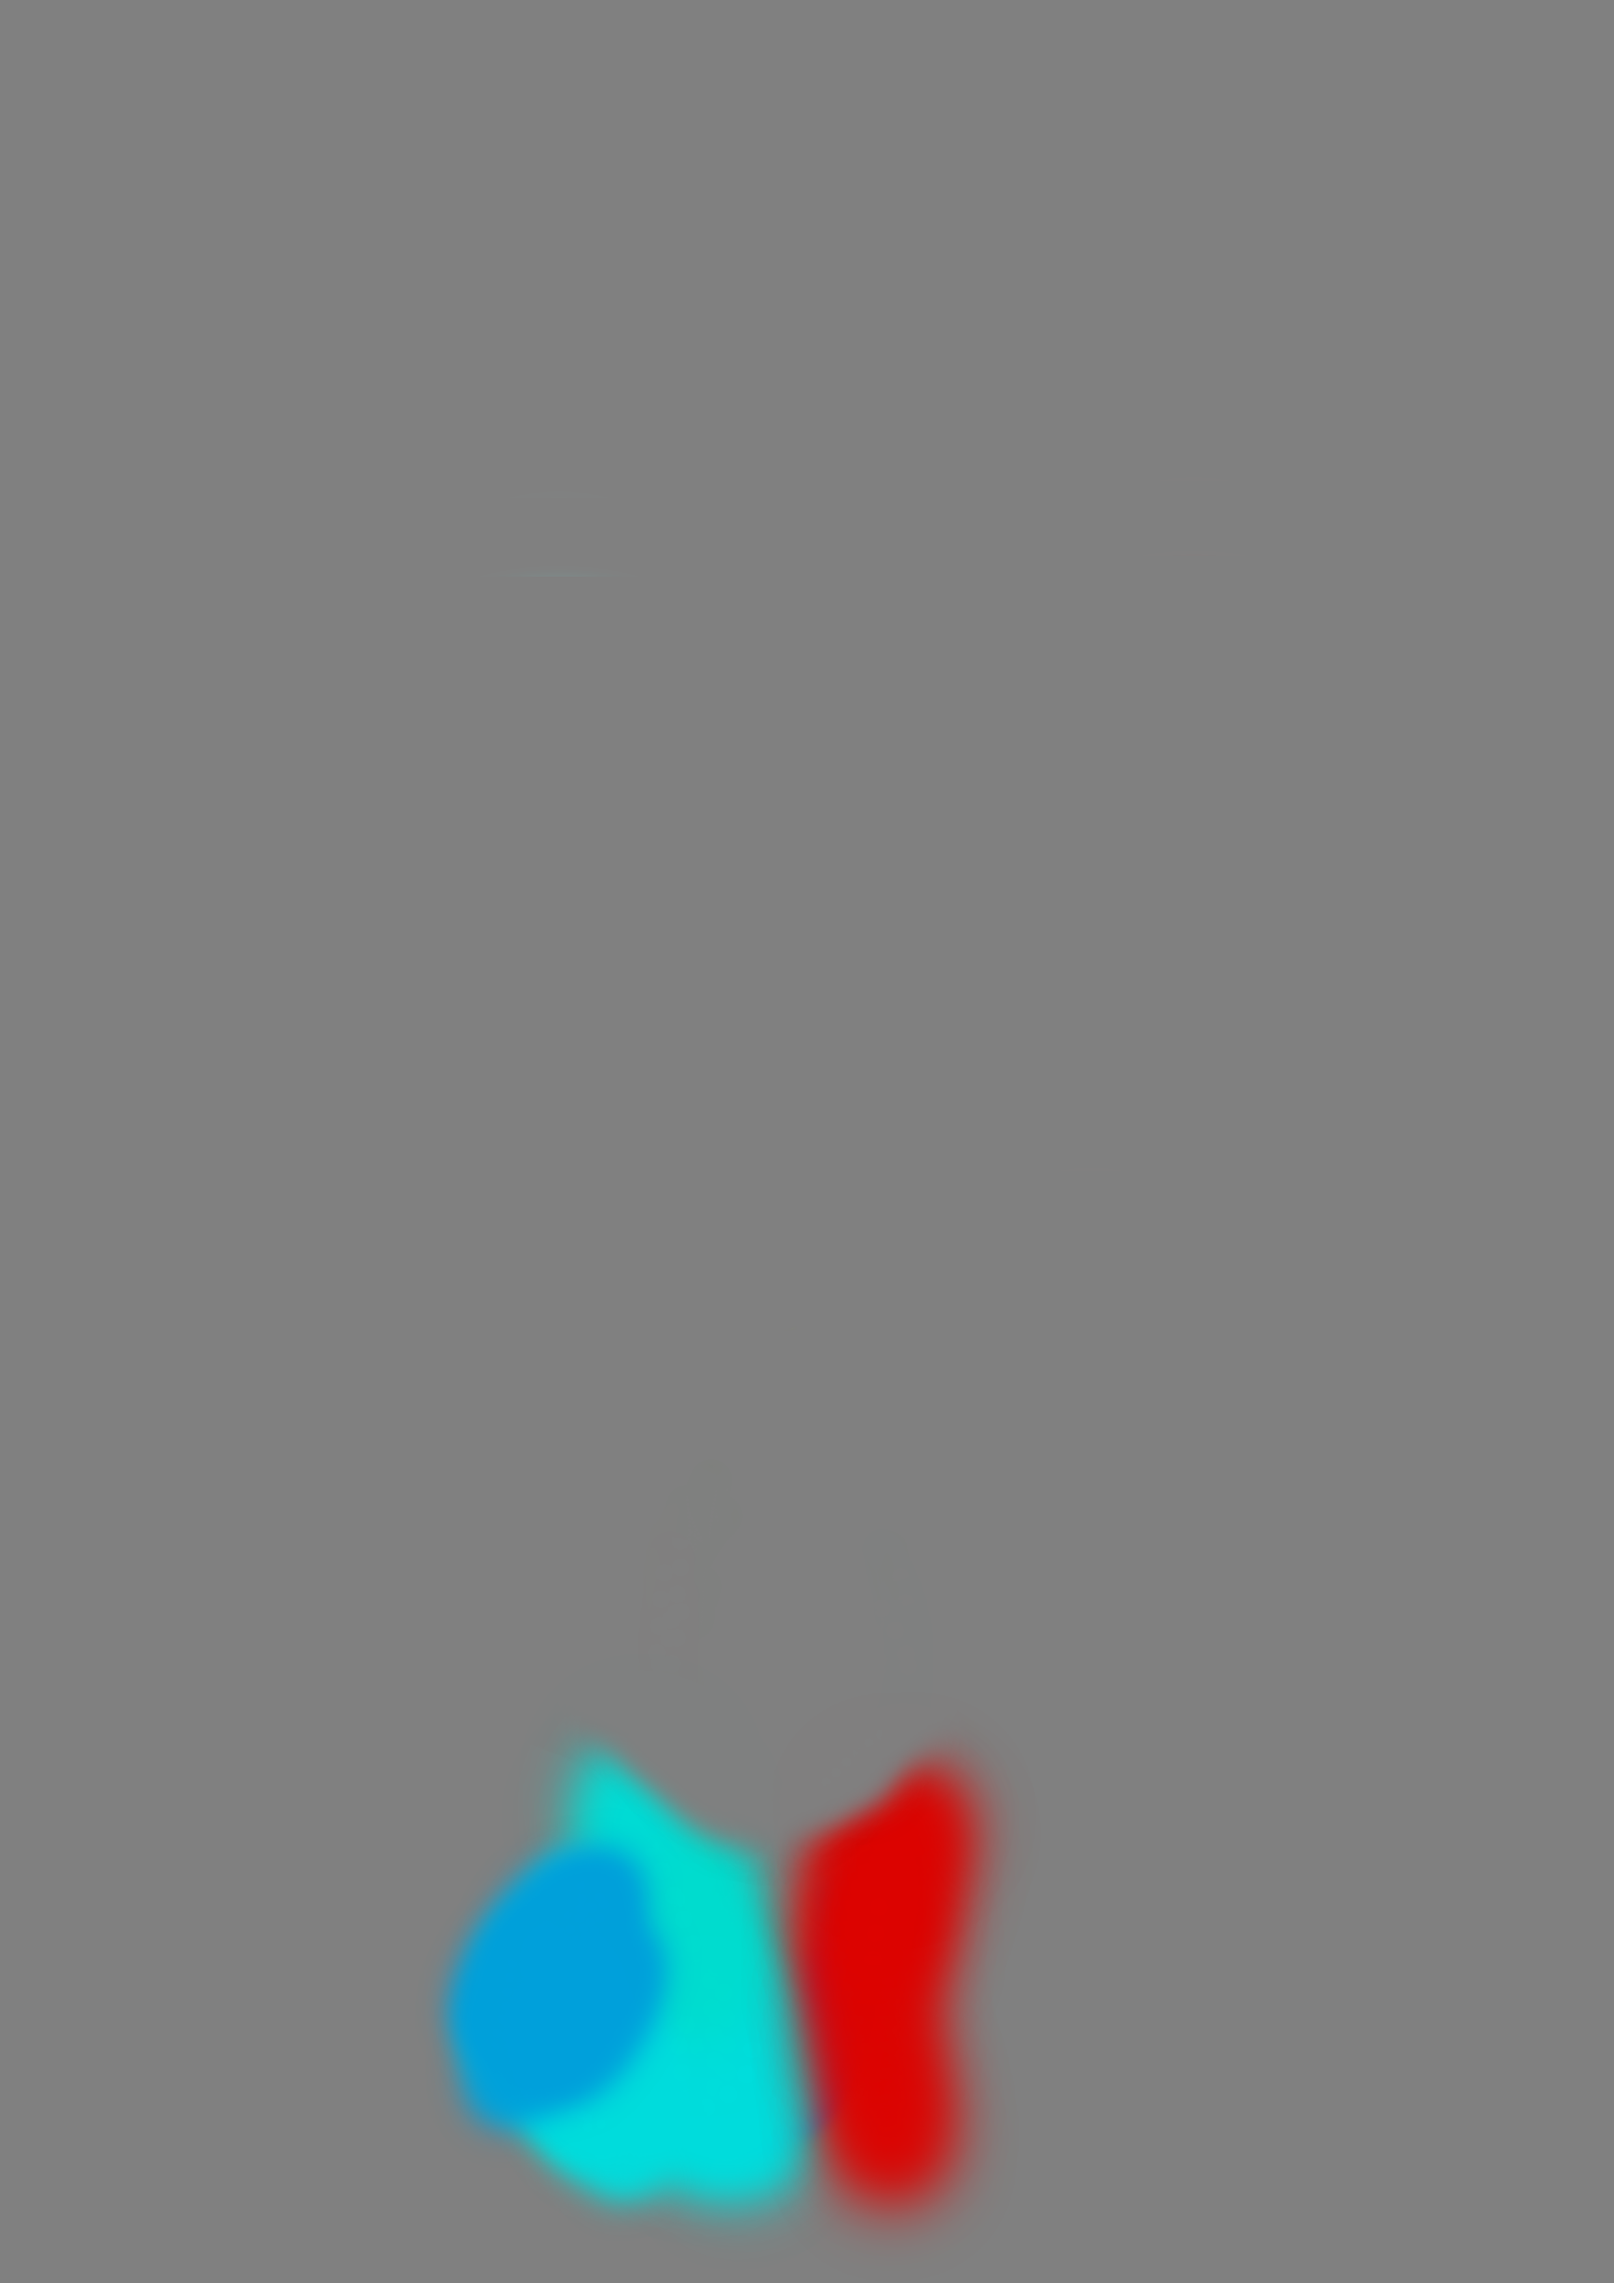
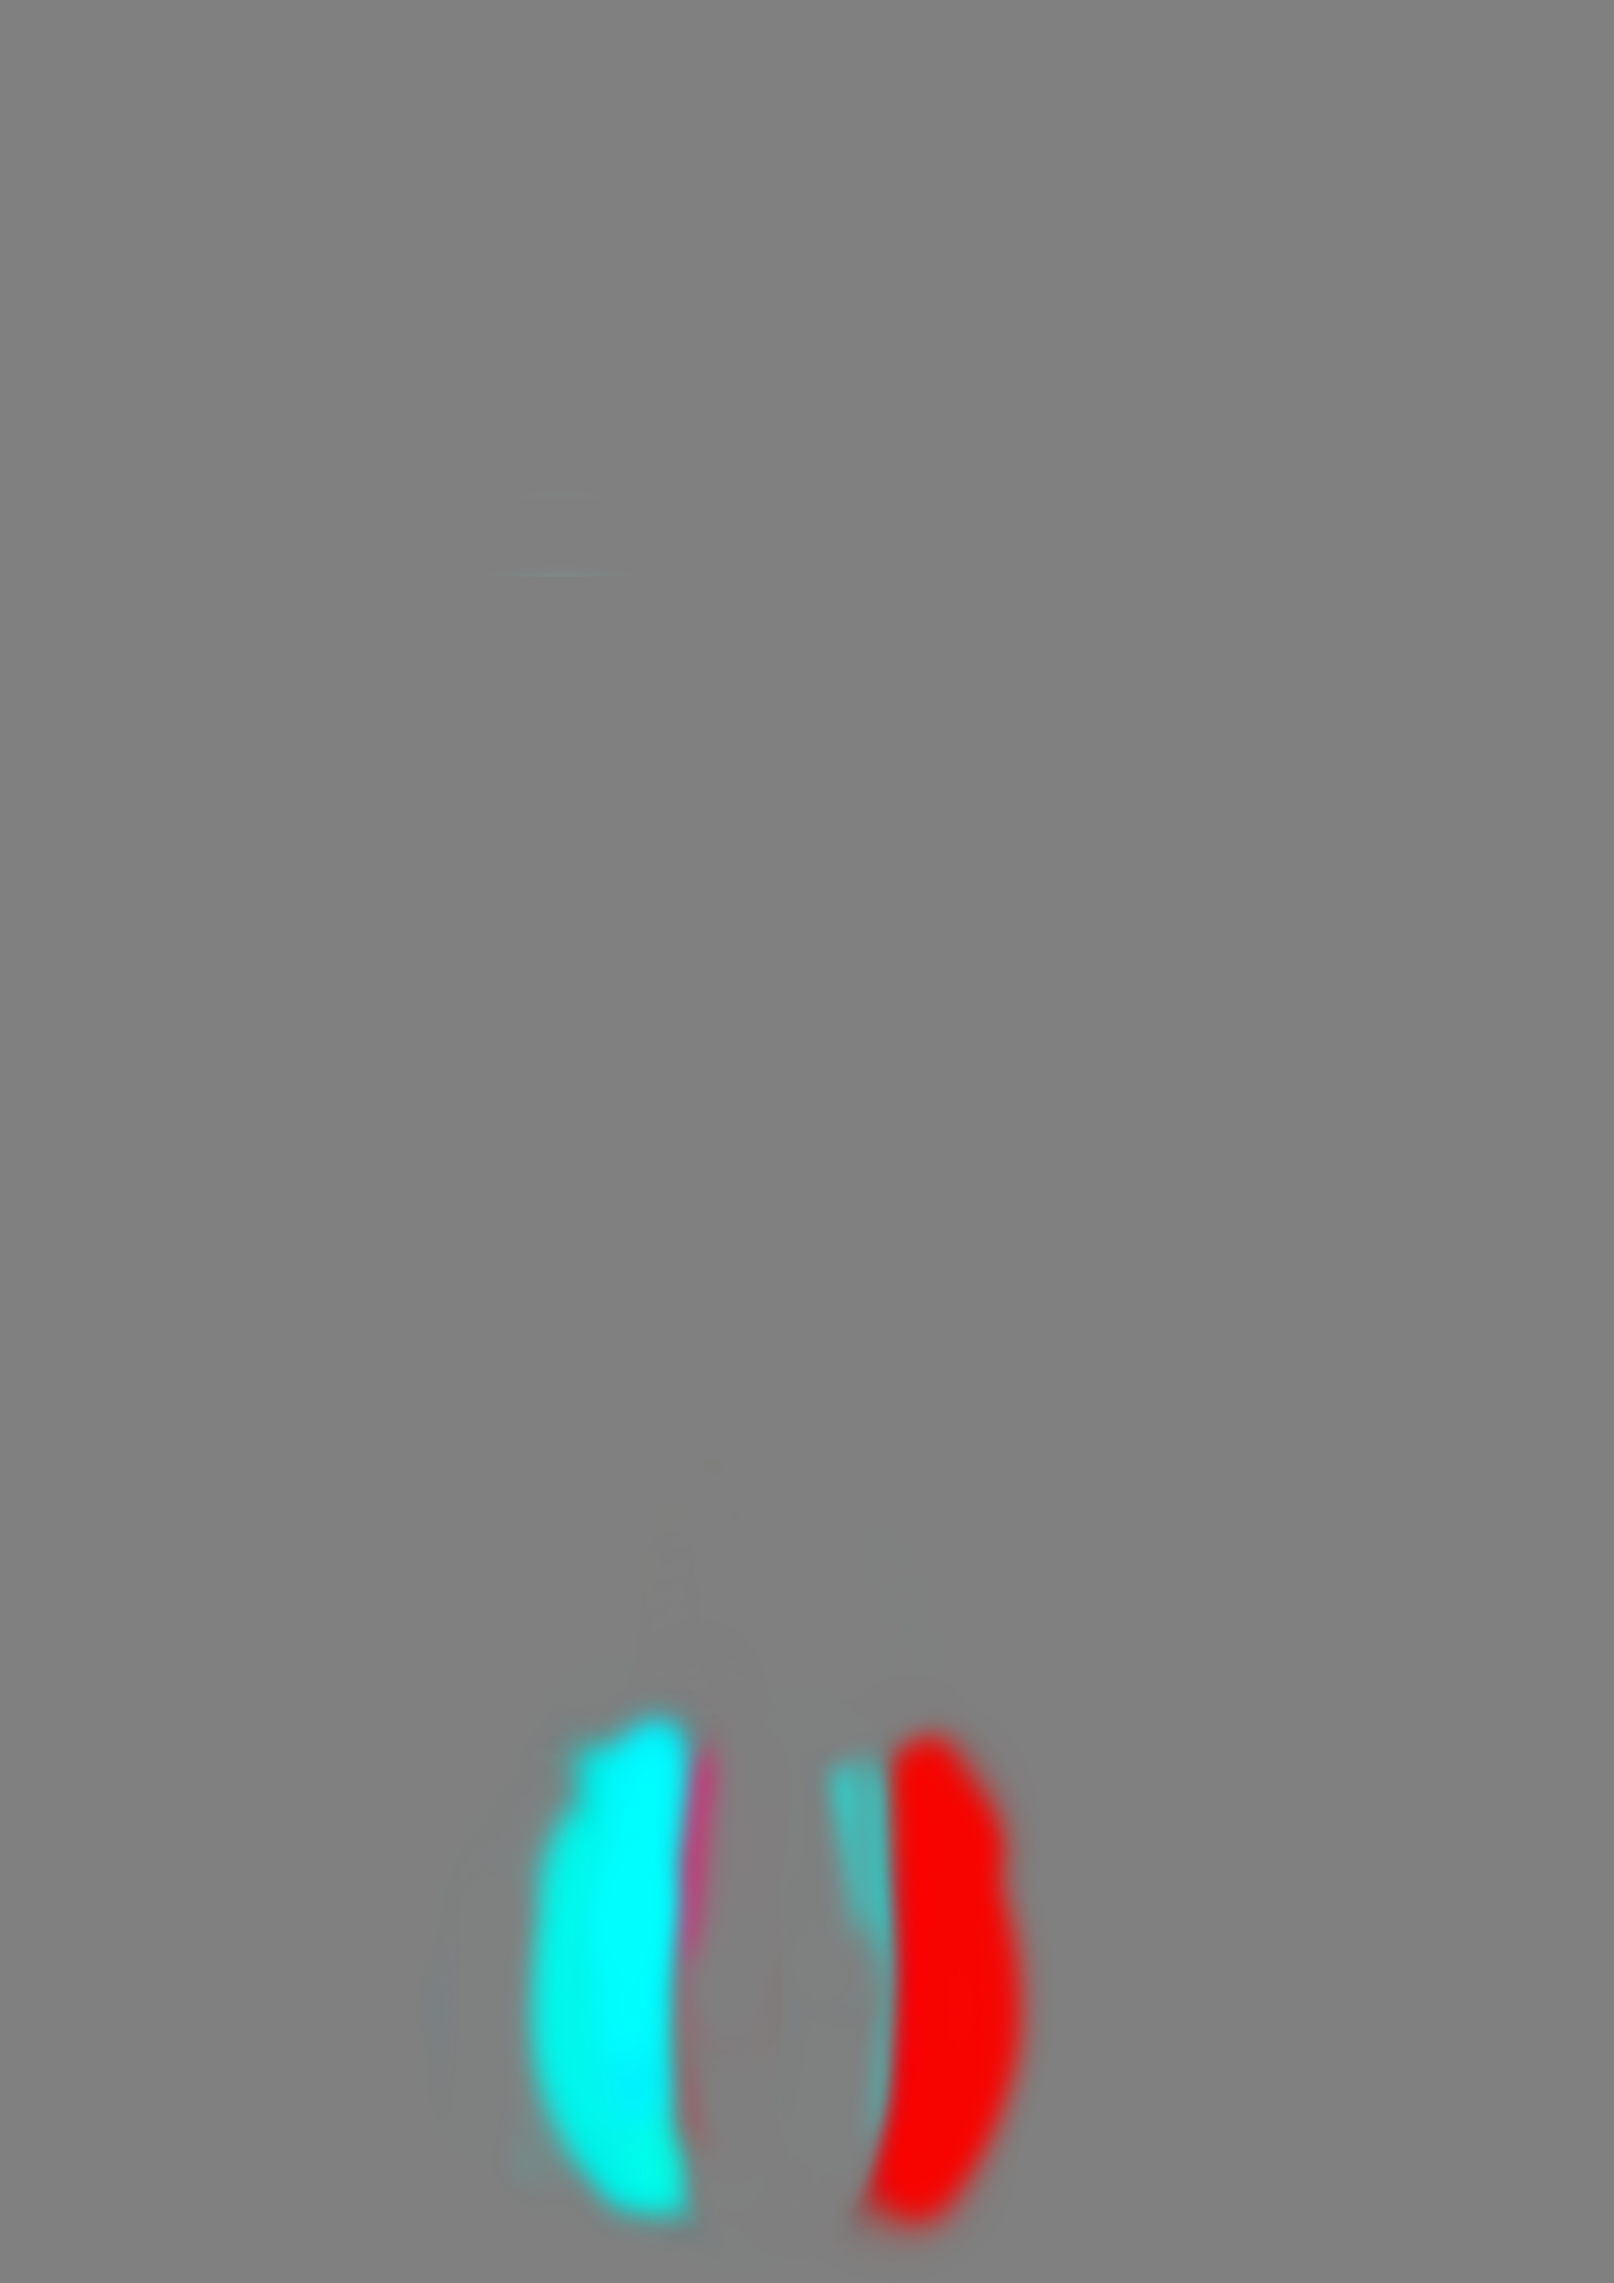
Data

Changed region(s): [[0.2484, 0.7457, 0.652, 0.9943]]

diff --git a/Data/ModelList_Heels.ts b/Data/ModelList_Heels.ts
@@ -19,7 +19,7 @@ AddModel({
 			GlobalDefaultOverride: ToMap(["KneelClosed", "Hogtie"]),
 			Poses: ToMap([...CALFLEFTPOSES]),
 			DisplacementSprite: "Ballet",
-			DisplaceAmount: 100,
+			DisplaceAmount: 50,
 			DisplaceLayers: ToMap(["Heels"]),
 			EraseInvariant: true,
 			EraseMorph: {Spread: "Spread"},
@@ -33,6 +33,11 @@ AddModel({
 			Poses: ToMap([...CALFRIGHTPOSES]),
 			GlobalDefaultOverride: ToMap(["KneelClosed", "Hogtie"]),
 			SwapLayerPose: {Kneel: "ShoeRightKneel"},
+			EraseInvariant: true,
+			EraseMorph: {Closed: "Closed"},
+			EraseSprite: "BalletRightErase",
+			EraseAmount: 100,
+			EraseLayers: ToMap(["HeelRight"]),
 		},
 
 

diff --git a/Data/Defs.ts b/Data/Defs.ts
@@ -392,6 +392,17 @@ let LayerGroups = {
 		"LegRight",
 
 	]),
+	"HeelRight": ToMap([
+		"FootLeft",
+		"StockingLeft",
+		"FootLeft",
+		"LegLeft",
+		"FootRight",
+		"StockingRight",
+		"FootRight",
+		"LegRight",
+
+	]),
 	// endregion
 
 	//region generic
